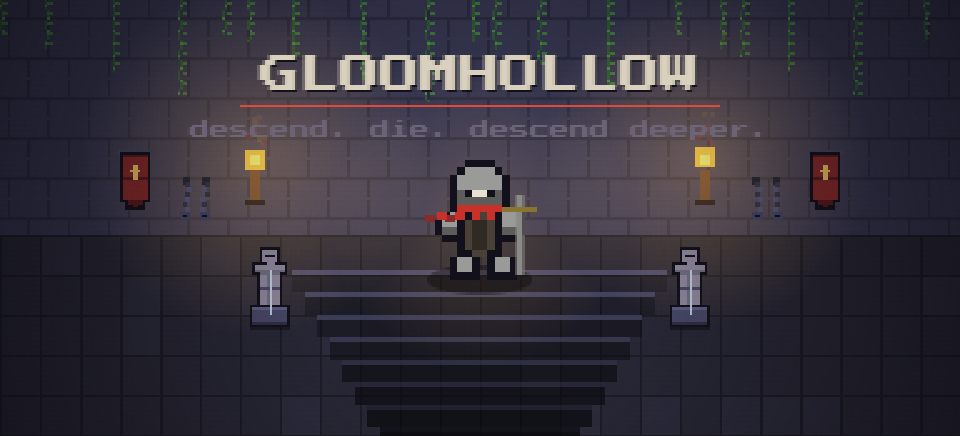
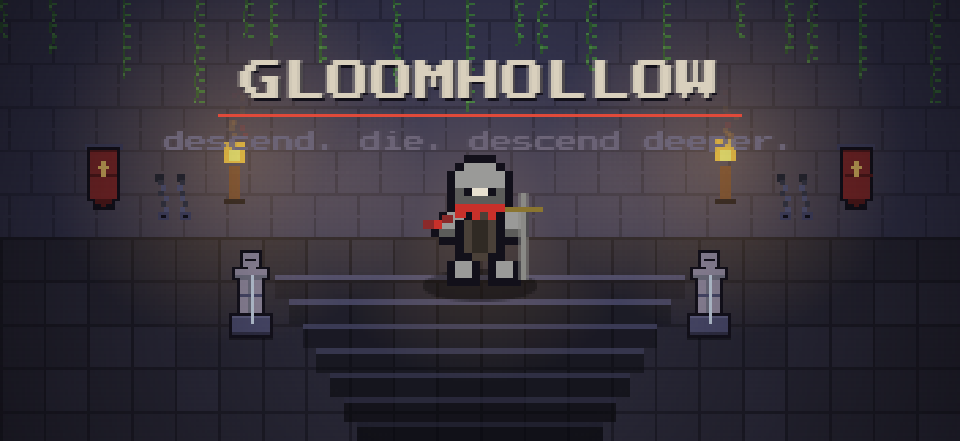
Gloomhollow build 47

diff --git a/index.html b/index.html
@@ -71,7 +71,7 @@ body.touch #pad{display:block}body.touch #help{display:none}
 </div>
 <script>
 (()=>{
-const W=384,H=224,T=16;let CH=224;   // the view is 24x14 tiles: a standard 20x12 room sits inside a wall border, and the pixel scale drops a step
+const W=352,H=208,T=16;let CH=208;   // the view is 22x13 tiles: a standard 20x12 room sits inside a thin wall border; on a 1080p screen this is one pixel-scale step in from the 24x14 view
 // The build number shown on the title screen is read from sw.js, so the cache version is the one source of truth.
 let BUILD='';fetch('sw.js').then(r=>r.text()).then(t=>{const m=t.match(/gloomhollow-v(\d+)/);if(m)BUILD='build '+m[1];}).catch(()=>{});
 const cv=document.getElementById('c'),ctx=cv.getContext('2d');
@@ -85,9 +85,12 @@ function fit(){const touch=document.body.classList.contains('touch');let s;let R
  else{CH=Math.max(H,ph);s=Math.max(1,Math.floor(Math.min(innerWidth/W,(innerHeight-40)/CH)));}
  cv.height=CH;baseOY=Math.floor((CH-ph)/2);baseOX=Math.floor((W-pw)/2);OFFX=baseOX;OFFY=baseOY;
  cv.style.width=W*s+'px';cv.style.height=CH*s+'px';try{updateCamera(0,true);}catch(e){}}
+// The camera follows you with a dead zone of a few pixels. camX/camY are the offset from the room's centre: a room bigger than the view scrolls to its edges and no further;
+// a room that fits still gives a little (up to `give`, never past its own edge) so you stay near the middle of the screen.
 function updateCamera(dt,snap){let R=null,P=null;try{R=room;P=player;}catch(e){}if(!R||!P){OFFX=baseOX;OFFY=baseOY;return;}
- const tx=R.pw>W?Math.max(0,Math.min(R.pw-W,P.x-W/2)):0,ty=R.ph>CH?Math.max(0,Math.min(R.ph-CH,P.y-CH/2)):0;
- if(snap){camX=tx;camY=ty;}else{const k=Math.min(1,dt*7);camX+=(tx-camX)*k;camY+=(ty-camY)*k;}
+ const give=20,dz=10,bigX=R.pw>W,bigY=R.ph>CH,lx=Math.min(give,(W-R.pw)/2),ly=Math.min(give,(CH-R.ph)/2);   // fit() left-aligns rooms wider than the view (baseOX 0), so those scroll in [0, pw-W]; fitting rooms give around their centred spot
+ const tx=bigX?Math.max(0,Math.min(R.pw-W,P.x-W/2)):Math.max(-lx,Math.min(lx,P.x-R.pw/2)),ty=bigY?Math.max(0,Math.min(R.ph-CH,P.y-CH/2)):Math.max(-ly,Math.min(ly,P.y-R.ph/2));
+ if(snap){camX=tx;camY=ty;}else{const k=Math.min(1,dt*7),dx=tx-camX,dy=ty-camY;if(Math.abs(dx)>dz)camX+=(dx-Math.sign(dx)*dz)*k;if(Math.abs(dy)>dz)camY+=(dy-Math.sign(dy)*dz)*k;}
  OFFX=baseOX-Math.round(camX);OFFY=baseOY-Math.round(camY);}
 addEventListener('resize',fit);addEventListener('orientationchange',()=>setTimeout(fit,200));document.addEventListener('fullscreenchange',()=>setTimeout(fit,200));fit();
 // ---------- audio ----------
@@ -285,13 +288,30 @@ const SKINS={
  ashen:{name:'Ashen One',desc:'Reach floor 5',rows:['....kkkk....','...kaaaak...','..kaaaaaak..','..kAkeekAk..','..kAAAAAAk..','...kkkkkk...','.kCCCCCCCCk.','kCCCCCCCCCCk','kCCcCCCCcCCk','kCCCCCCCCCCk','.kCCCCCCCCk.','.kCkCCCCkCk.','kCk.kCCk.kCk','k...kaak...k','....kaak....','....kkkk....'],pal:{k:K,a:'#8a8296',A:'#5a5a6a',c:'#2e2838',C:'#3a3a52',e:'#e8a33c',o:null},cond:t=>t.bestFloor>=5,prog:t=>[t.bestFloor||1,5]},
  reaper:{name:'Reaper',desc:'300 kills in total',rows:['....kkkk....','...kCCCCk...','..kCCCCCCk..','.kCCkwwkCCk.','.kCkwewewkCk','.kCkwwwwwkCk','.kCkkwkwkkCk','.kCCCCCCCCk.','.kCCCCCCCCk.','.kCCCCCCCCk.','.kCCCCCCCCk.','.kCCCCCCCCk.','.kCCCCCCCCk.','.kCCCCCCCCk.','.kCCkCCkCCk.','.kkkk..kkkk.'],pal:{k:K,a:'#2a2430',A:'#1e1d2c',c:'#2a2430',C:'#1e1d2c',e:'#e04a3a',o:null,w:'#cfc4b0'},cond:t=>t.totalKills>=300,prog:t=>[t.totalKills||0,300]},
  dawn:{name:'Dawnbringer',desc:'Clear floor 2 of a daily run',rows:['..o.o..o.o..','...oooooo...','..okkkkkkko.','..kaaaaaak..','..kAkeekAk..','..kAAAAAAk..','...kkkkkk...','.kakccccckak','kakcCggCckak','kAkcCggCckAk','.kkkcCCCckkk','...kcCCCck..','...kkgggkk..','..kaak.kaak.','..kaak.kaak.','..kkkk.kkkk.'],pal:{k:K,a:'#fff0c0',A:'#e8a33c',c:'#7fa8ff',C:'#4a6fd0',e:'#fff0c0',o:'#f4c968',g:'#f4c968'},cond:t=>t.dailyClears>=1,prog:t=>[t.dailyClears||0,1]},
- king:{name:'Unhollowed',desc:'Slay the Ashen Wyrm',rows:['.kk......kk.','..kk.kk.kk..','...kkaakk...','..kaaaaaak..','..kAkeekAk..','..kAAAAAAk..','...kkkkkk...','.kaakCcCkaak','kaakCcCcCkak','kAAkcCcCckAk','.kkkCcCcCkkk','...kcCcCck..','...kkgggkk..','..kaak.kaak.','..kAAk.kAAk.','..kkkk.kkkk.'],pal:{k:K,a:'#f4c968',A:'#8a7530',c:'#8a2a2a',C:'#5a1a1a',e:'#e04a3a',o:'#f4c968',g:'#f4c968'},cond:t=>t.wins>=1,prog:t=>[t.wins||0,1]}
+ king:{name:'Unhollowed',desc:'Slay the Ashen Wyrm',rows:['.kk......kk.','..kk.kk.kk..','...kkaakk...','..kaaaaaak..','..kAkeekAk..','..kAAAAAAk..','...kkkkkk...','.kaakCcCkaak','kaakCcCcCkak','kAAkcCcCckAk','.kkkCcCcCkkk','...kcCcCck..','...kkgggkk..','..kaak.kaak.','..kAAk.kAAk.','..kkkk.kkkk.'],pal:{k:K,a:'#f4c968',A:'#8a7530',c:'#8a2a2a',C:'#5a1a1a',e:'#e04a3a',o:'#f4c968',g:'#f4c968'},cond:t=>t.wins>=1,prog:t=>[t.wins||0,1]},
+ bellwarden:{name:'Bellwarden',desc:'Slay Hells Bell',rows:['....kkkk....','...kggggk...','..kggggggk..','..kgggggGk..','..kgeggegk..','.kGGGGGGGGk.','.kkkkkkkkkk.','.kaakccckaak','kaakcCCckaak','kAAkcGGckAAk','.kkkcCCckkk.','...kcCCck...','...kkgckk...','..kaak.kaak.','..kaak.kaak.','..kkkk.kkkk.'],pal:{k:K,g:'#c9a227',G:'#8a7020',a:'#8a8296',A:'#5a5a6a',c:'#3a3a52',C:'#2a2a40',e:'#e04a3a',o:null},cond:t=>(t.hellsbellSlain||0)>=1,prog:t=>[t.hellsbellSlain||0,1]},   // his bell, worn as a helm
+ toller:{name:'Toller',desc:'Fell 20 tollers',rows:['....kkkk....','...kggggk...','..kggvgggk..','..kgeggegk..','.kggggggggk.','.kGGGGGGGGk.','.kkkkkkkkkk.','.kcckccckcck','kcckcCCckcck','kCCkcCCckCCk','.kkkcCCckkk.','...kcCCck...','...kkcckk...','..kcck.kcck.','..kcck.kcck.','..kkkk.kkkk.'],pal:{k:K,g:'#c9a227',G:'#8a7020',v:'#4aa08a',c:'#3a3a52',C:'#2a2a40',a:'#3a3a52',A:'#2a2a40',e:'#e04a3a',o:null},cond:t=>(t.tollerKills||0)>=20,prog:t=>[t.tollerKills||0,20]}
 };
 const legWalk=(rows,spread)=>rows.map((r,i)=>{if(i<rows.length-2)return r;const m=r.length>>1,L=r.slice(0,m),R=r.slice(m),sl=s=>s.slice(1)+'.',sr=s=>'.'+s.slice(0,-1);return spread?sl(L)+sr(R):sr(L)+sl(R);});
 const ROLL_ROWS=["..kkkkkk..",".kAAaaAAk.","kAcCkkCcAk","kAckaakcAk","kAckAAkcAk","kAcCkkCcAk",".kAAaaAAk.","..kkkkkk.."];
+// Views derived from a front drawing, for bearings without hand-drawn ones. The face rows (the eye rows and any row sharing the face colour next to the eyes) are hidden behind the crown or hood colour
+// for the back views, chest emblems are flattened, and the three-quarter and side views keep one eye toward the facing side. Legs are left alone so the walk frames still work.
+function deriveViews(rows){const H=rows.length,eyeRows=rows.map((r,i)=>r.includes('e')?i:-1).filter(i=>i>=0);if(!eyeRows.length)return{back:rows.slice(),side:rows.slice(),fd:rows.slice(),bd:rows.slice()};
+ const e0=eyeRows[0],neck=(()=>{for(let i=e0;i<H;i++)if(/^\.*k+\.*$/.test(rows[i])||i>=6&&rows[i].indexOf('e')<0&&i>eyeRows[eyeRows.length-1]&&!/[^.k]/.test(rows[i]))return i;return Math.min(H-1,e0+2);})();
+ const faceLetters=new Set();for(const i of eyeRows){const r=rows[i];for(let x=0;x<r.length;x++)if(r[x]==='e'){for(const y of[x-1,x+1])if(r[y]&&r[y]!=='k'&&r[y]!=='.'&&r[y]!=='e')faceLetters.add(r[y]);}}
+ const inner=r=>{const m=r.match(/^\.*k(.)/);return m?m[1]:null;};
+ let crown=null;for(let i=e0-1;i>=0;i--){const c=inner(rows[i]);if(c&&c!=='k'&&!faceLetters.has(c)){crown=c;break;}}if(!crown){const c=inner(rows[e0]);crown=c&&c!=='k'?c:'a';}
+ const isFace=(r,i)=>i>=Math.max(0,e0-1)&&i<neck&&(r.includes('e')||[...faceLetters].some(f=>r.includes(f)));
+ const hide=r=>{const a=r.indexOf('k'),b=r.lastIndexOf('k');if(a<0||b<=a)return r;let o=r.split('');for(let x=a+1;x<b;x++)if(o[x]!=='.')o[x]=crown;return o.join('');};
+ const flatten=r=>{let o=r.split('');const c=o[4]!=='k'?o[4]:o[5]!=='k'?o[5]:null;if(!c||c==='.')return r;for(let x=4;x<=7;x++)if(o[x]!=='k'&&o[x]!=='.')o[x]=c;return o.join('');};
+ const back=rows.map((r,i)=>isFace(r,i)?hide(r):(i>neck&&i<H-3?flatten(r):r));
+ const oneEye=r=>{const xs=[];for(let x=0;x<r.length;x++)if(r[x]==='e')xs.push(x);if(xs.length<2)return r;let o=r.split('');for(let j=0;j<xs.length-1;j++){const x=xs[j];o[x]=(o[x-1]&&o[x-1]!=='k'&&o[x-1]!=='e'&&o[x-1]!=='.')?o[x-1]:crown;}return o.join('');};
+ const fd=rows.map(r=>r.includes('e')?oneEye(r):r);
+ const shift=r=>r.endsWith('.')?'.'+r.slice(0,-1):r;const side=fd.map((r,i)=>i<neck?shift(r):r);
+ return{back,side,fd,bd:back};}
 const SKIN_IDS=Object.keys(SKINS);const skinSprites={},rollSprites={},walkSprites={},lockedSprites={},skinViews={};
 for(const id of SKIN_IDS){const sk=SKINS[id];skinSprites[id]=mkSpr(sk.rows,sk.pal);rollSprites[id]=mkSpr(ROLL_ROWS,sk.pal);walkSprites[id]=[mkSpr(legWalk(sk.rows,true),sk.pal),mkSpr(legWalk(sk.rows,false),sk.pal)];const dark={};for(const k in sk.pal)dark[k]=sk.pal[k]?'#1e1d2c':null;lockedSprites[id]=mkSpr(sk.rows,dark);
- if(sk.views){const v={front:{spr:skinSprites[id],walk:walkSprites[id]}};for(const nm in sk.views){const r=sk.views[nm];v[nm]={spr:mkSpr(r,sk.pal),walk:[mkSpr(legWalk(r,true),sk.pal),mkSpr(legWalk(r,false),sk.pal)]};}skinViews[id]=v;}}
+ {const views=sk.views||deriveViews(sk.rows),v={front:{spr:skinSprites[id],walk:walkSprites[id]}};for(const nm in views){const r=views[nm];v[nm]={spr:mkSpr(r,sk.pal),walk:[mkSpr(legWalk(r,true),sk.pal),mkSpr(legWalk(r,false),sk.pal)]};}skinViews[id]=v;}}
 // Which drawing faces the way you aim. Eight sectors of the aim angle; y runs down, so sector 2 is south (the front view) and 6 is north (the back).
 function playerView(p){const v=SPR.views;if(!v)return{spr:SPR.player,walk:SPR.walk,flip:p.facing};const d=((Math.round(p.aim/(Math.PI/4))%8)+8)%8;
  const pick=[['side',1],['fd',1],['front',1],['fd',-1],['side',-1],['bd',-1],['back',1],['bd',1]][d];const set=v[pick[0]]||v.front;return{spr:set.spr,walk:set.walk,flip:pick[1]};}
@@ -1281,7 +1301,7 @@ function killEnemy(e){run.kills++;deaths.push({type:sprKey(e),x:e.x,y:e.y+e.r,fa
   if(run.daily){const d=save.daily&&save.daily.date===todayStr()?save.daily:{date:todayStr(),floor:0,souls:0};if(floor>d.floor||(floor===d.floor&&souls>d.souls)){d.floor=floor;d.souls=souls;}save.daily=d;persist();if(floor>=2)stat('dailyClears');}SFX.clear();hitstop=Math.max(hitstop,0.15);
   if(e.type==='dragon'){showMsg('The Ashen Wyrm falls.',3.5);winning=true;winT=0;burst(e.x,e.y,40,'#f4c968');burst(e.x,e.y+24,40,'#e8a33c');if(loop>(save.stats.bestLoop||0))save.stats.bestLoop=loop;stat('wins');}
   else{showMsg((e.name.charAt(0).toUpperCase()+e.name.slice(1))+' falls. Stairs open below.',3.5);dropItem({kind:'stairs',x:room.pw/2,y:room.ph/2+20,price:0});burst(room.pw/2,room.ph/2+20,20,'#f4c968');}}
- else stat(e.type==='archer'?'archerKills':e.type==='drowned'?'drownedKills':e.type==='imp'?'impKills':'gruntKills');
+ else stat(e.type==='archer'?'archerKills':e.type==='drowned'?'drownedKills':e.type==='imp'?'impKills':e.type==='toller'?'tollerKills':'gruntKills');
  save.stats.totalKills=(save.stats.totalKills||0)+1;checkUnlocks();
  if(e.champion){dropItem({kind:'weapon',id:unownedWeapon(),x:e.x-10,y:e.y,price:0},{kind:'spell',id:unownedSpell(),x:e.x+10,y:e.y,price:0});burst(e.x,e.y,22,'#f4c968');showMsg('The champion falls',1.8);}
  else if(e.elite){const wep=Math.random()<0.5;dropItem(wep?{kind:'weapon',id:unownedWeapon(),x:e.x,y:e.y,price:0}:{kind:'spell',id:unownedSpell(),x:e.x,y:e.y,price:0});burst(e.x,e.y,12,'#f4c968');}

diff --git a/sw.js b/sw.js
@@ -1,6 +1,6 @@
 // Gloomhollow service worker — caches the game so it launches offline.
 // Bump CACHE whenever you upload a new index.html.
-const CACHE = 'gloomhollow-v46';
+const CACHE = 'gloomhollow-v47';
 const CORE = ['./', './index.html', './manifest.json',
   './icons/icon-192.png', './icons/icon-512.png', './icons/icon-512-maskable.png', './icons/icon-180.png', './icons/favicon-32.png'];
 

diff --git a/README.md b/README.md
@@ -242,7 +242,7 @@ Twenty, one copy of each per run, chests only. Every one bends a rule. Some are 
 
 <p align="center"><img src="readme/bearings.png" alt="Eighteen bearings" width="960"></p>
 
-Eighteen looks for your knight, each unlocked by a deed. Cosmetic, and kept across runs.
+Eighteen looks for your knight, each unlocked by a deed. Cosmetic, kept across runs, and every one turns to face where you aim.
 
 | Bearing | Deed |
 |---|---|
